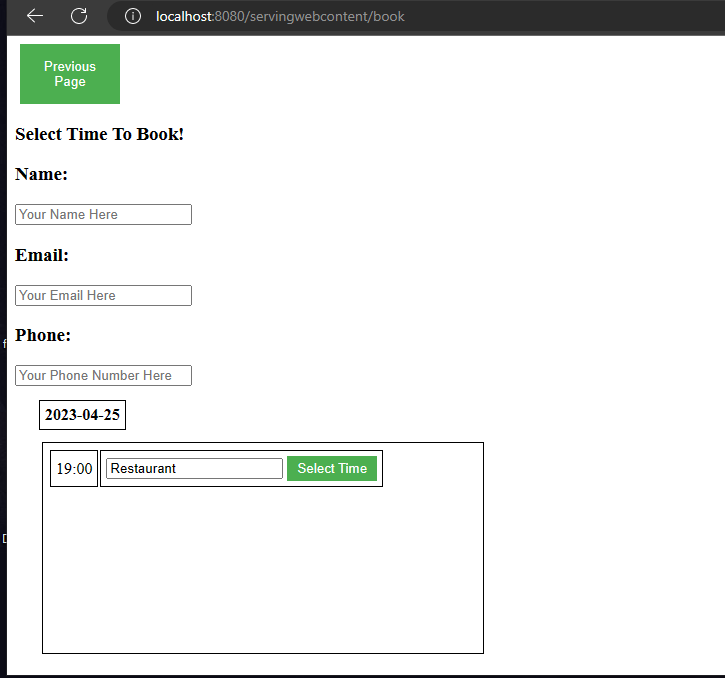
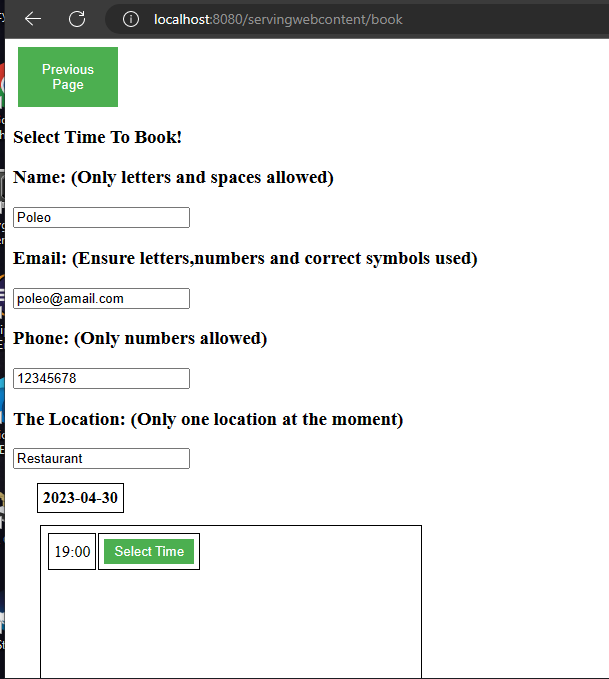
updated images and added input checks

diff --git a/src/main/resources/templates/book.html b/src/main/resources/templates/book.html
@@ -14,16 +14,16 @@
     <h3>Select Time To Book!</h3>
     
     <form method="POST" th:action="@{/postBook}">
-        <h3>Name:</h3>
-        <input name="selectedName" placeholder="Your Name Here" required>
+        <h3>Name: (Only letters and spaces allowed)</h3>
+        <input name="selectedName" placeholder="Your Name Here" pattern="[a-zA-Z ]+" required>
         </br>
-        <h3>Email:</h3>
-        <input type="email" name="selectedEmail" placeholder="Your Email Here" required>            
+        <h3>Email: (Ensure letters,numbers and correct symbols used)</h3>
+        <input type="email" name="selectedEmail" placeholder="Your Email Here" pattern="^[a-zA-Z0-9._%+-]+@[a-zA-Z0-9.-]+\.[a-zA-Z]{2,}$" required>            
         </br>
-        <h3>Phone:</h3>
-        <input name="selectedPhone" placeholder="Your Phone Number Here" required>    
+        <h3>Phone: (Only numbers allowed)</h3>
+        <input name="selectedPhone" placeholder="Your Phone Number Here" pattern="\d+" required>    
         </br>
-		<h3>The Location:</h3>
+		<h3>The Location: (Only one location at the moment)</h3>
         <input name="selectedLocation" th:value="Restaurant" readonly>
         <input type="hidden" name="selectedDate" th:value="${date}">
         <table>

diff --git a/target/classes/templates/book.html b/target/classes/templates/book.html
@@ -14,16 +14,16 @@
     <h3>Select Time To Book!</h3>
     
     <form method="POST" th:action="@{/postBook}">
-        <h3>Name:</h3>
-        <input name="selectedName" placeholder="Your Name Here" required>
+        <h3>Name: (Only letters and spaces allowed)</h3>
+        <input name="selectedName" placeholder="Your Name Here" pattern="[a-zA-Z ]+" required>
         </br>
-        <h3>Email:</h3>
-        <input type="email" name="selectedEmail" placeholder="Your Email Here" required>            
+        <h3>Email: (Ensure letters,numbers and correct symbols used)</h3>
+        <input type="email" name="selectedEmail" placeholder="Your Email Here" pattern="^[a-zA-Z0-9._%+-]+@[a-zA-Z0-9.-]+\.[a-zA-Z]{2,}$" required>            
         </br>
-        <h3>Phone:</h3>
-        <input name="selectedPhone" placeholder="Your Phone Number Here" required>    
+        <h3>Phone: (Only numbers allowed)</h3>
+        <input name="selectedPhone" placeholder="Your Phone Number Here" pattern="\d+" required>    
         </br>
-		<h3>The Location:</h3>
+		<h3>The Location: (Only one location at the moment)</h3>
         <input name="selectedLocation" th:value="Restaurant" readonly>
         <input type="hidden" name="selectedDate" th:value="${date}">
         <table>
